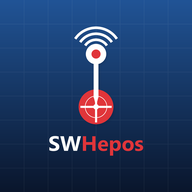
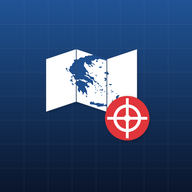
Νέο εικονίδιο: χάρτης Ελλάδας + στόχος χάραξης (ίδια οικογένεια με SWHelper)

Changed region(s): [[0.2188, 0.125, 0.7812, 0.8125]]

diff --git a/sw.js b/sw.js
@@ -1,5 +1,5 @@
 /* SWHepos service worker — offline app shell (by ZS-Top) */
-var CACHE = 'swhepos-v20';
+var CACHE = 'swhepos-v21';
 var SHELL = [
   './', './index.html', './swmaps.js', './hepos.js', './hepos_grids.js',
   './manifest.webmanifest', './assets/zstop-logo.png', './assets/aviyaan-logo.png', './assets/softwel-logo.png',
